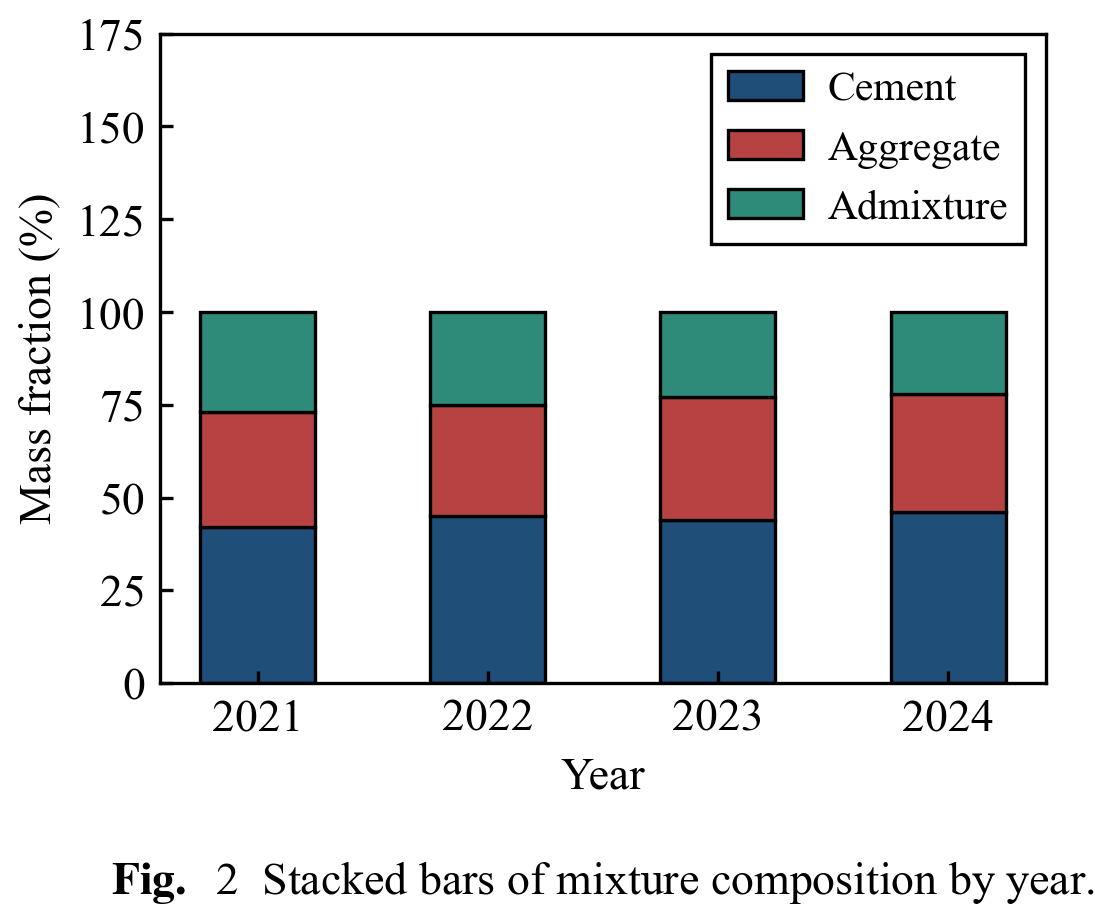
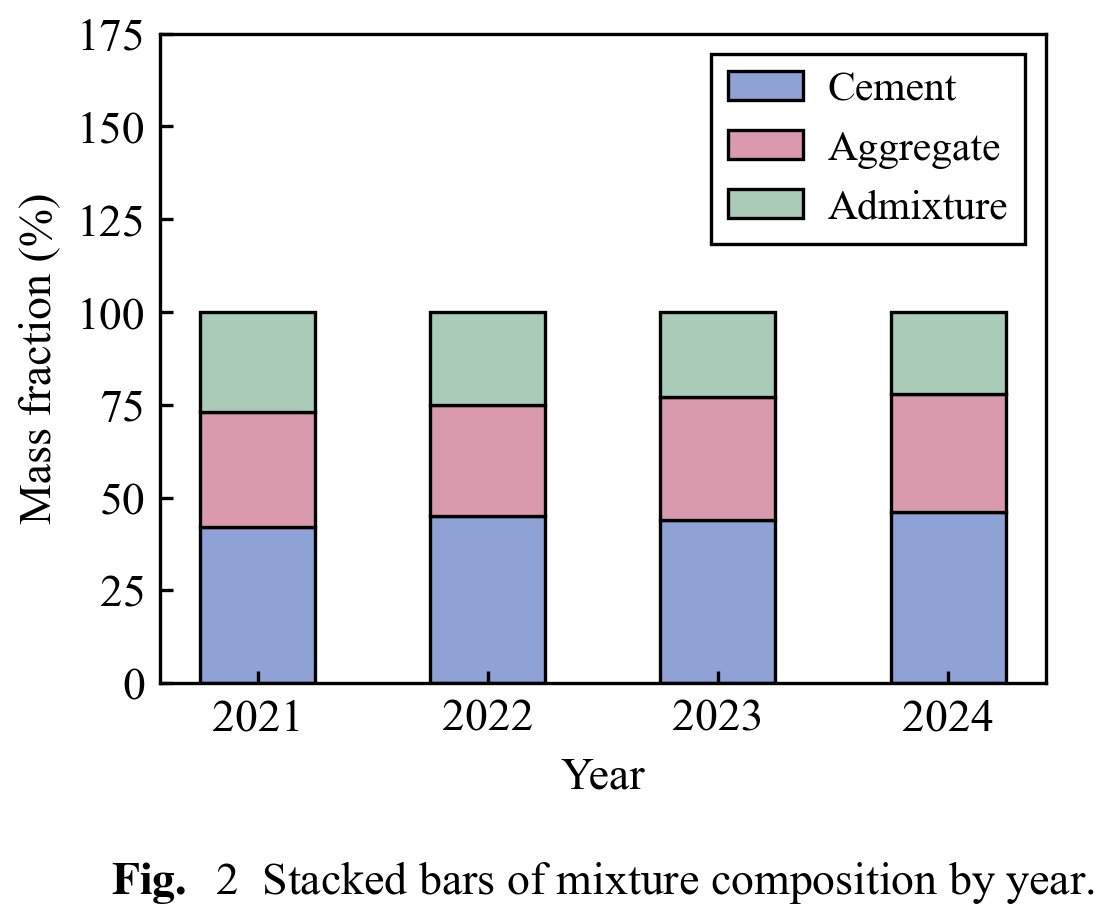
Adopt the soft science palette, with the light members carrying the area
Replace the deep-blue house palette with the extracted 7-colour soft set:
Lavender Dusk #6A5C95, Coral Bloom #D99AAE, Coral Peach #E7A889, Seafoam Mist
#A9CBB8, Pale Aqua #CFE3E6, Periwinkle Blue #8FA2D6, Slate Violet #5B608C
(in the spirit of the pastel sets in SciPalette, the AAAS/Nature palettes in
ggsci and the plotstyle science preset).

Only two members are dark (Lavender Dusk and Slate Violet, luminance ~99/255),
so primary is the light Periwinkle Blue and Lavender Dusk drops to secondary -
a deep violet on primary would fill the largest bar or stacked area with the
darkest ink and make every figure read heavy (measured before the swap: the
primary violet covered 6.8-13.7% of the pixels in grouped/stacked bars and the
stacked area). Docs, palette swatch, previews and the galleries are updated.

diff --git a/assets/wxl_style.py b/assets/wxl_style.py
@@ -7,7 +7,7 @@ figure is inserted at its original physical size.
 Hard rules (see SKILL.md):
   * Times New Roman everywhere, STIX math glyphs, no sans-serif faces.
   * Uniform 11 pt text (caption / axis label / tick / legend / annotation).
-  * Deep-blue palette only.
+  * Soft science palette only (muted pastel series; see WXL_PALETTE).
   * Full box on every Cartesian axes (all four spines).
   * Legend inside the axes, opaque white face, black 0.8 pt border.
   * Ticks point inward, no grid.
@@ -33,15 +33,17 @@ from matplotlib.font_manager import findfont
 # Constants
 # --------------------------------------------------------------------------
 
-#: Deep-blue semantic palette (WXL house palette).
+#: Soft science palette (muted pastel series, journal-figure look). The light
+#: members carry the large fills, so a big bar or stacked area stays calm; the
+#: two deep violets are kept for thin lines, emphasis and references.
 WXL_PALETTE = {
-    "primary": "#1F4E79",    # proposed method / main series
-    "secondary": "#4E86C6",  # secondary blue, supporting series
-    "contrast": "#B64342",   # baseline / competing method
-    "improve": "#2E8B7A",    # improvement / positive variant
-    "accent": "#E0A030",     # emphasis, annotations, secondary axis
-    "neutral": "#7B7B7B",    # reference lines, background categories
-    "light": "#C9DCF0",      # light fill, uncertainty bands
+    "primary": "#8FA2D6",    # Periwinkle Blue  - proposed method / main series
+    "secondary": "#6A5C95",  # Lavender Dusk    - supporting series
+    "contrast": "#D99AAE",   # Coral Bloom      - baseline / competing method
+    "improve": "#A9CBB8",    # Seafoam Mist     - improvement / positive variant
+    "accent": "#E7A889",     # Coral Peach      - emphasis, annotations
+    "neutral": "#5B608C",    # Slate Violet     - reference lines, grid, background
+    "light": "#CFE3E6",      # Pale Aqua        - light fill, uncertainty bands
 }
 
 #: Default diverging colour map for matrices and correlation heatmaps.

diff --git a/examples/gallery.py b/examples/gallery.py
@@ -705,7 +705,7 @@ HTML_HEAD = """<!doctype html>
   .card .head{display:flex;justify-content:space-between;align-items:baseline;
               gap:10px;padding:9px 12px 6px;border-bottom:1px solid #e6e6e6}
   .card .head h3{margin:0;font-family:"Times New Roman",serif;font-size:15px}
-  .card .cat{font-size:11.5px;color:#fff;background:#1F4E79;padding:1px 7px;border-radius:2px}
+  .card .cat{font-size:11.5px;color:#fff;background:#6A5C95;padding:1px 7px;border-radius:2px}
   .card img{width:100%;height:auto;display:block;background:#fff;cursor:zoom-in;
             border-bottom:1px solid #e6e6e6}
   .card .body{padding:9px 12px 12px;font-size:12.5px;color:#333}
@@ -726,7 +726,7 @@ HTML_HEAD = """<!doctype html>
 <body>
 <header>
   <h1>figure-making-WXL · 全部图型预览</h1>
-  <p class="sub">统一 11 pt · Times New Roman · 深蓝主色系 · 四边全包围 · 图例带黑框 · 刻度朝内 · 无网格</p>
+  <p class="sub">统一 11 pt · Times New Roman · 柔和科研配色 · 四边全包围 · 图例带黑框 · 刻度朝内 · 无网格</p>
 </header>
 <main>
 <section>

diff --git a/references/design-theory.md b/references/design-theory.md
@@ -2,7 +2,7 @@
 
 Why the WXL style looks the way it does. Everything here is derived from the
 locked decisions: Elsevier / IEEE / Springer target, Times New Roman, uniform
-11 pt, deep-blue palette, full box, framed legend, inward ticks, no grid.
+11 pt, soft science palette, full box, framed legend, inward ticks, no grid.
 
 ---
 
@@ -88,27 +88,39 @@ at most a two-entry legend. If a panel feels crowded at 90 mm, move it to
 
 ## 2) Palette semantics
 
-| Key | Hex | Meaning | Typical use |
-|---|---|---|---|
-| `primary` | `#1F4E79` | the method or series you are arguing for | main bars, main curve |
-| `secondary` | `#4E86C6` | same family, supporting role | extra blue series |
-| `contrast` | `#B64342` | baseline or competitor | comparison bars/curves |
-| `improve` | `#2E8B7A` | improvement, variant | ablation, positive deltas |
-| `accent` | `#E0A030` | emphasis | annotations, secondary axis |
-| `neutral` | `#7B7B7B` | reference, background | gridlines, target lines |
-| `light` | `#C9DCF0` | fill, low-emphasis mass | histograms, bands |
+A soft, low-saturation "science" set of seven colours, in the spirit of the soft
+pastel palettes used by modern journal-figure libraries (for example SciPalette's
+pastel sets, the AAAS/Nature palettes in `ggsci`, and the `science` preset in
+`plotstyle`). Muted fills with black edges keep the figures calm and print-safe.
+
+| Key | Hex | Name | Meaning | Typical use |
+|---|---|---|---|---|
+| `primary` | `#8FA2D6` | Periwinkle Blue | the method or series you are arguing for | main bars, main curve |
+| `secondary` | `#6A5C95` | Lavender Dusk | supporting role | extra series |
+| `contrast` | `#D99AAE` | Coral Bloom | baseline or competitor | comparison bars/curves |
+| `improve` | `#A9CBB8` | Seafoam Mist | improvement, variant | ablation, positive deltas |
+| `accent` | `#E7A889` | Coral Peach | emphasis | annotations, highlighted points |
+| `neutral` | `#5B608C` | Slate Violet | reference, background | gridlines, target lines |
+| `light` | `#CFE3E6` | Pale Aqua | fill, low-emphasis mass | histograms, bands |
 
 Design intent:
 
-- Blues carry the argument. If two blue series appear together, the darker one
-  is the primary.
-- Red is reserved for the thing you are comparing against, so a reader who only
-  skims the color still reads the comparison.
-- Teal marks gain; amber marks emphasis. Do not use them as a second baseline.
-- Grayscale safety: `primary` vs `contrast` vs `improve` differ in both hue and
-  lightness, so the figure survives a black-and-white print. When more than
-  four series are needed, add hatch or marker-shape encoding rather than new
-  hues.
+- **The light members carry the area, the deep ones carry the line.** This set
+  has only two dark colours (Lavender Dusk #6A5C95 and Slate Violet #5B608C,
+  both luminance ≈ 99/255); the other five sit at 162–223. Putting a deep violet
+  on `primary` fills the largest bar or stacked area with the darkest ink and
+  makes the whole figure read heavy, so `primary` is the light periwinkle and the
+  deep violets are reserved for thin lines, emphasis and references.
+- Coral is reserved for the thing you compare against, so a reader who only skims
+  the colour still reads the comparison.
+- Seafoam marks gain; peach marks emphasis. Do not use them as a second baseline.
+- Slate violet is the deliberate low-chroma one: it is the only colour used for
+  reference lines and grids, so nothing in the data competes with it.
+- These are 300 dpi-ready pastels, so the 0.8 pt black edge on every patch does
+  the definition work that a saturated fill would otherwise do.
+- Grayscale safety: the set separates by lightness as well as hue, so the figure
+  survives a black-and-white print. When more than four series are needed, add
+  hatch or marker-shape encoding rather than new hues.
 
 Colour maps: `RdBu_r` for signed matrices (correlation), `Blues` for
 non-negative fields (intensity, temperature), `coolwarm` when the sign matters

diff --git a/README.md b/README.md
@@ -5,7 +5,8 @@ IEEE and Springer submissions. Every text element is Times New Roman at a
 uniform **11 pt**, so figure text matches Word 11 pt body text when the image is
 inserted at its original size.
 
-论文配图样式技能：Times New Roman 统一 11 pt、深蓝主色系、四边全包围、图例带黑框、
+论文配图样式技能：Times New Roman 统一 11 pt、柔和科研配色（Lavender Dusk /
+Coral Bloom / Seafoam Mist 等 7 色）、四边全包围、图例带黑框、
 刻度朝内、无网格，图幅按 90 / 140 / 190 mm 印刷宽度校准。
 
 ## Install for an agent
@@ -73,7 +74,7 @@ the colours — the skill never decides these for them. See `references/preferen
 | Target | Elsevier / IEEE / Springer |
 | Font | Times New Roman + STIX math, SimSun for CJK |
 | Type scale | 11 pt body, legend 10 pt |
-| Palette | deep blue `#1F4E79` primary, `#B64342` contrast, `#2E8B7A` improve, `#E0A030` accent, `#7B7B7B` neutral, `#C9DCF0` light |
+| Palette | soft science 7-colour set: Periwinkle Blue `#8FA2D6` primary, Coral Bloom `#D99AAE` contrast, Seafoam Mist `#A9CBB8` improve, Coral Peach `#E7A889` accent, Lavender Dusk `#6A5C95` secondary, Slate Violet `#5B608C` neutral, Pale Aqua `#CFE3E6` light |
 | Axes | full box, 0.8 pt spines |
 | Legend | inside the axes, white face, black 0.8 pt border |
 | Ticks | inward, no grid, both axis ends land on a tick label |
@@ -271,15 +272,20 @@ The only colours allowed are the palette, black and white.
 
 ![WXL_PALETTE](img/palette.png)
 
-| Key | Hex | Meaning | Typical use |
-|---|---|---|---|
-| `primary` | `#1F4E79` | the method you argue for | main bars, main curve |
-| `secondary` | `#4E86C6` | same family, supporting role | extra blue series |
-| `contrast` | `#B64342` | baseline / competitor | comparison bars / curves |
-| `improve` | `#2E8B7A` | improvement / variant | ablation, positive deltas |
-| `accent` | `#E0A030` | emphasis | annotations, secondary axis |
-| `neutral` | `#7B7B7B` | reference / background | gridlines, target lines |
-| `light` | `#C9DCF0` | fill, low-emphasis mass | histograms, bands |
+| Key | Hex | Name | Meaning | Typical use |
+|---|---|---|---|---|
+| `primary` | `#8FA2D6` | Periwinkle Blue | the method you argue for | main bars, main curve |
+| `secondary` | `#6A5C95` | Lavender Dusk | supporting series | extra series |
+| `contrast` | `#D99AAE` | Coral Bloom | baseline / competitor | comparison bars / curves |
+| `improve` | `#A9CBB8` | Seafoam Mist | improvement / variant | ablation, positive deltas |
+| `accent` | `#E7A889` | Coral Peach | emphasis | annotations, highlighted points |
+| `neutral` | `#5B608C` | Slate Violet | reference / background | gridlines, target lines |
+| `light` | `#CFE3E6` | Pale Aqua | fill, low-emphasis mass | histograms, bands |
+
+The light members carry the area and the two deep violets carry the lines: only
+Lavender Dusk and Slate Violet are dark (luminance ≈ 99/255), so the large fills
+use the light periwinkle, coral, seafoam and peach, and the deep violets are kept
+for thin lines, emphasis and references.
 
 Default series order without an explicit mapping: `primary → contrast →
 improve → accent → secondary → neutral`.

diff --git a/SKILL.md b/SKILL.md
@@ -3,7 +3,7 @@ name: figure-making-wxl
 description: >-
   Publication-ready matplotlib figures in the WXL house style for Elsevier,
   IEEE and Springer submissions: every text element is Times New Roman at
-  11 pt (legend at 10 pt), with a deep-blue semantic palette, full-box axes,
+  11 pt (legend at 10 pt), with a soft science semantic palette, full-box axes,
   framed in-plot legends, inward ticks, no grid, captions below the figure, and
   figure widths fixed to the final print width (90 / 140 / 190 mm). Before
   plotting it always asks the user for the chart type, the x/y axis labels (and
@@ -101,7 +101,7 @@ These rules supersede any conflicting style text in `references/` or in upstream
    `fig.suptitle` and never a title on top of the axes. Panel labels go just
    below their own panel, centered, **not bold**, and carry a number plus a short
    title (`(a) Grouped bars`), not a bare `(a)`.
-9. **Deep-blue palette only.** Colors come from `WXL_PALETTE`; black, white and
+9. **Soft science palette only.** Colors come from `WXL_PALETTE`; black, white and
    the palette are the only allowed colors. See `references/design-theory.md`
    for the semantics.
 10. **Export PNG 600 dpi + PDF vector.** Saving uses `bbox_inches="tight"` so
@@ -133,7 +133,7 @@ These rules supersede any conflicting style text in `references/` or in upstream
 | Chart type | which chart, how many panels | grouped bar / trend / ... |
 | Axis labels | x and y text, units, italic or not | italic symbol, upright unit |
 | Line style | markers, width, dash pattern | open markers, 1.5 pt, solid |
-| Colours | per-series colours; colormap for matrices | deep-blue `WXL_PALETTE` |
+| Colours | per-series colours; colormap for matrices | soft science `WXL_PALETTE` |
 
 For a variable, italicise the symbol and keep the unit upright, e.g.
 `r"Slip $s$ (mm)"` and `r"Bond stress $\tau$ (MPa)"`.
@@ -227,7 +227,7 @@ style.
 | `legend.set_ncols` | Used for the flatten fallback when available (matplotlib ≥ 3.6); skipped silently otherwise. |
 | `python-docx` | Only imported by `assets/wxl_docx.py`; the core style module never imports it. Figures work without it. |
 
-What is guaranteed on any conforming machine: 11 pt Times text, the deep-blue
+What is guaranteed on any conforming machine: 11 pt Times text, the soft science
 palette, full-box axes, framed legends placed by measured overlap, inward ticks,
 axis ends on tick values, the 90 / 140 / 190 mm width calibration, and a
 `check_wxl_style` audit that fails on any deviation.

diff --git a/references/preferences.md b/references/preferences.md
@@ -1,6 +1,6 @@
 # Ask before you plot (per-figure preferences)
 
-The house style (11 pt Times, deep-blue palette, full box, framed legends,
+The house style (11 pt Times, soft science palette, full box, framed legends,
 inward ticks, axis ends on ticks) is the default, but four decisions belong to
 the user and must be confirmed **before** drawing each figure. Never pick them
 yourself, and never silently reuse a previous figure's choices.
@@ -70,13 +70,15 @@ Ask the per-series colour mapping, and for matrices the colormap.
 
 - Default series order: `WXL_SERIES` = primary, contrast, improve, accent,
   secondary, neutral.
-- Colour semantics to confirm: proposed / key method = primary blue, baseline /
-  competitor = red (`contrast`), gain = teal (`improve`), emphasis = amber
-  (`accent`), reference = grey (`neutral`).
+- Colour semantics to confirm: proposed / key method = Periwinkle Blue
+  (`primary`, light so a large fill stays calm), baseline / competitor = Coral
+  Bloom pink (`contrast`), gain = Seafoam Mist sage (`improve`), emphasis = Coral
+  Peach (`accent`), supporting = Lavender Dusk (`secondary`), reference = Slate
+  Violet (`neutral`).
 - Matrices: `WXL_CMAP` = `RdBu_r` (signed), `Blues` (non-negative),
   `coolwarm` (signed, more contrast).
-- If the user names a keyword (e.g. "Nature", "彩图1"), map it to a palette and
-  confirm the concrete colours.
+- If the user names a keyword (e.g. "Nature", "Science", "彩图1"), map it to a
+  palette and confirm the concrete colours.
 
 ---
 
@@ -89,7 +91,7 @@ Ask the per-series colour mapping, and for matrices the colormap.
  2. x-axis label      -> text: 'Slip $s$ (mm)'?  italic symbol s?
     y-axis label      -> text: 'Bond stress $\\tau$ (MPa)'?  italic symbol τ?
  3. line style        -> [open markers, 1.5 pt, solid (recommended) | dashed | ...]
- 4. colours           -> [deep-blue house palette (recommended) | keyword | custom]"
+ 4. colours           -> [soft science house palette (recommended) | keyword | custom]"
 ```
 
 Only after the user answers do you call `apply_wxl_style()` and draw. If a

diff --git a/references/api.md b/references/api.md
@@ -11,13 +11,13 @@ skill's `assets/` directory to `sys.path`.
 
 ```python
 WXL_PALETTE = {
-    "primary":   "#1F4E79",   # proposed method / main series
-    "secondary": "#4E86C6",   # secondary blue, supporting series
-    "contrast":  "#B64342",   # baseline / competing method
-    "improve":   "#2E8B7A",   # improvement / positive variant
-    "accent":    "#E0A030",   # emphasis, annotations, secondary axis
-    "neutral":   "#7B7B7B",   # reference lines, background categories
-    "light":     "#C9DCF0",   # light fill, uncertainty bands
+    "primary":   "#8FA2D6",   # Periwinkle Blue - proposed method / main series
+    "secondary": "#6A5C95",   # Lavender Dusk   - supporting series
+    "contrast":  "#D99AAE",   # Coral Bloom     - baseline / competing method
+    "improve":   "#A9CBB8",   # Seafoam Mist    - improvement / positive variant
+    "accent":    "#E7A889",   # Coral Peach     - emphasis, annotations
+    "neutral":   "#5B608C",   # Slate Violet    - reference lines, grid, background
+    "light":     "#CFE3E6",   # Pale Aqua       - light fill, uncertainty bands
 }
 ```
 
